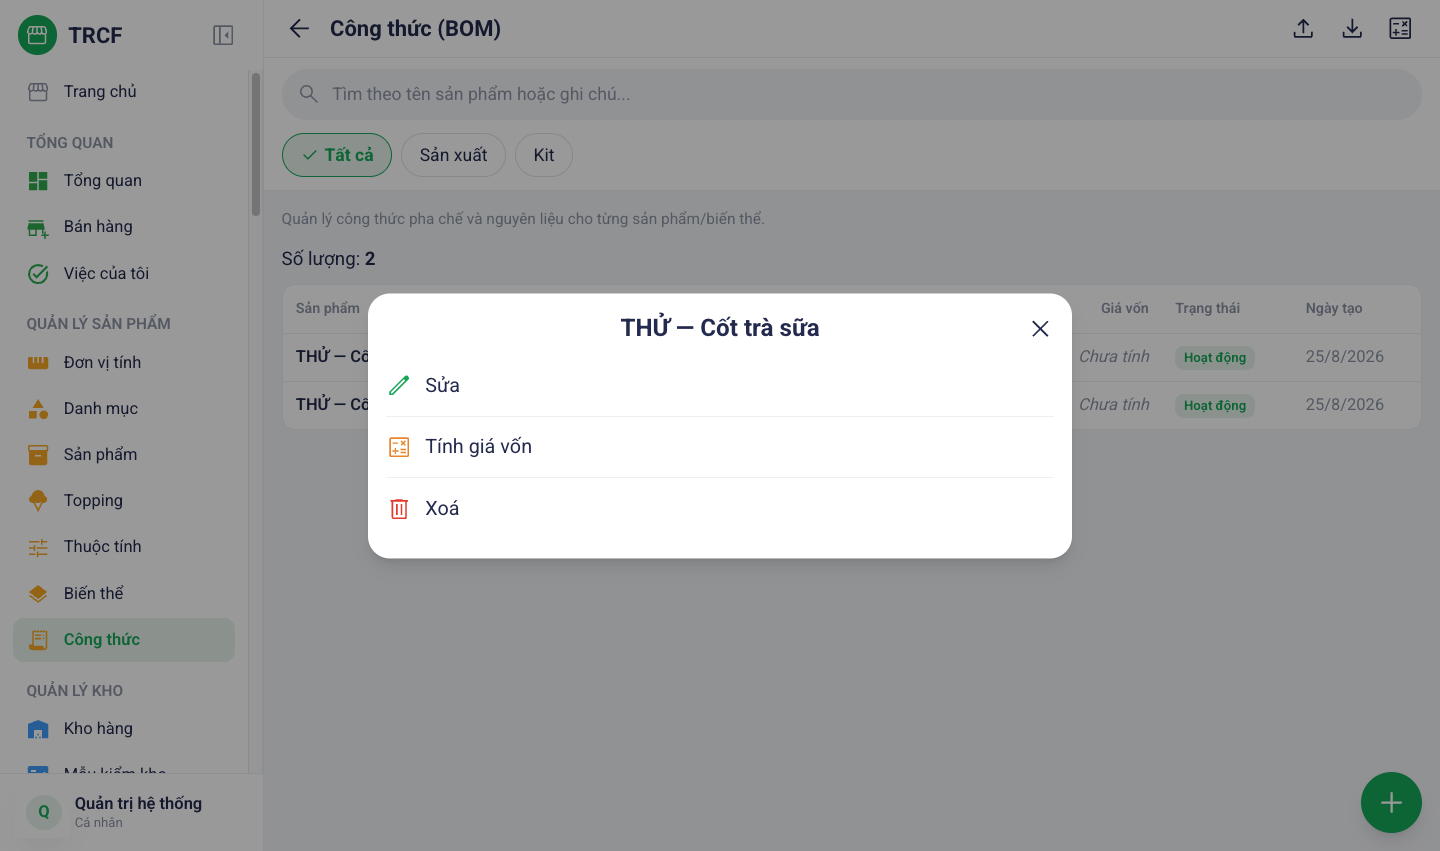
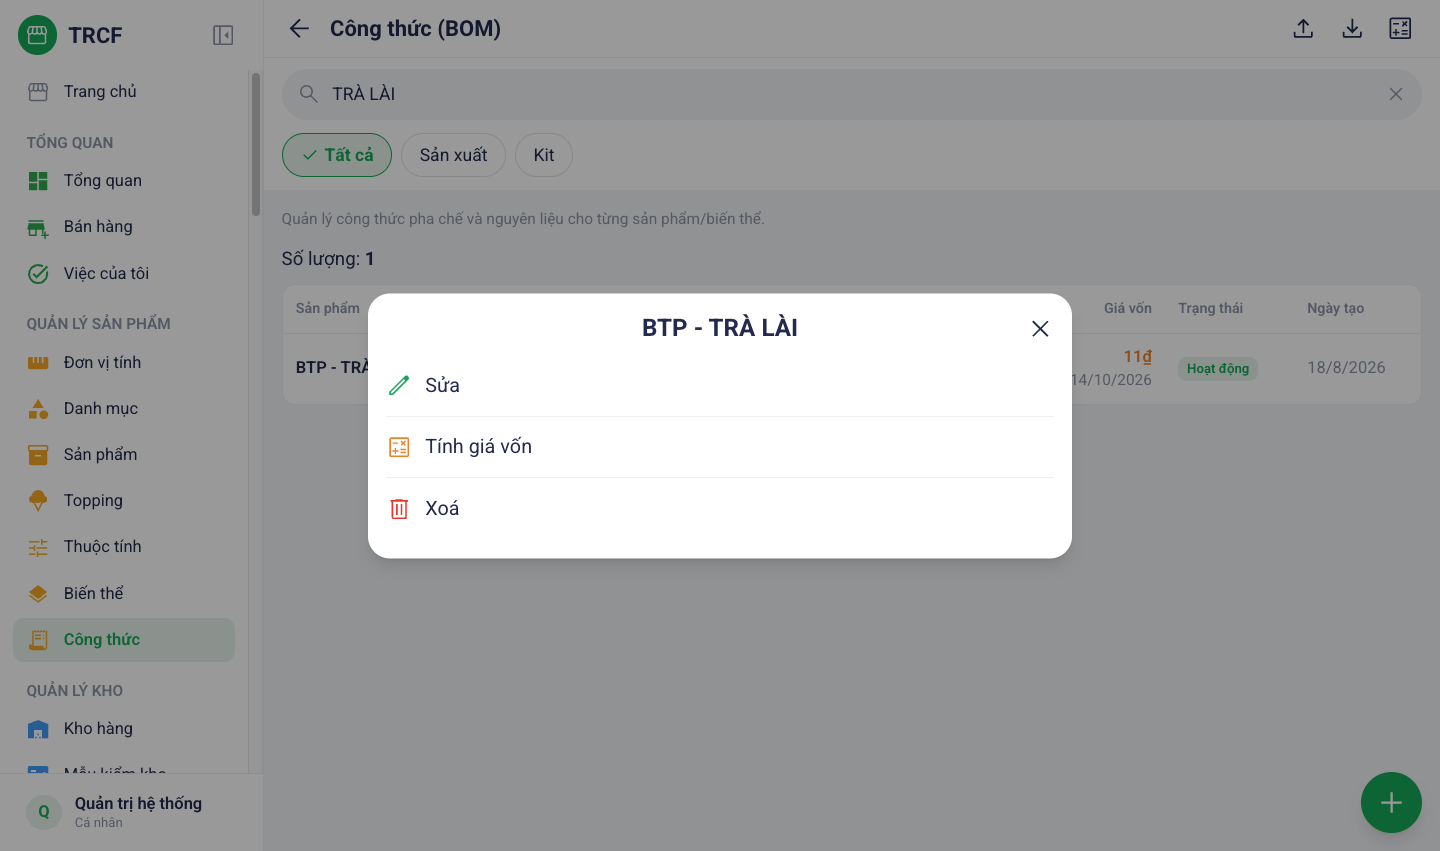
docs(3.1, 3.2): công thức thật BTP - TRÀ LÀI (800 GR, 11₫/GR) và MAY ĐEN ĐÁ kit (5.125₫)
Chụp lại 4 ảnh trên dữ liệu Coffeetree. Bảng hai loại công thức dùng món
thật. Công thức giá vốn sửa đúng cách hệ thống tính: tổng tiền nguyên liệu
÷ sản lượng, kèm phép tính mẫu.

diff --git a/noi-dung/3-1-cong-thuc-ban-thanh-pham.md b/noi-dung/3-1-cong-thuc-ban-thanh-pham.md
@@ -15,15 +15,15 @@ Menu trái: ==Quản lý sản phẩm → Công thức== (địa chỉ `/boms`).
 
 | Loại         | Trừ kho khi nào                                       | Dùng cho                                                               |
 | ------------ | ----------------------------------------------------- | ---------------------------------------------------------------------- |
-| CẦN SẢN XUẤT | Khi lập **phiếu chế biến** ([11.4](11-4-che-bien.md)) | Bán thành phẩm ủ trước: TRÀ LÀI Ủ SẴN, MILKFOAM, TRÂN CHÂU NẤU SẴN     |
-| KIT          | Ngay **lúc bán**, tự trừ thành phần                   | COMBO, MÓN RÁP TẠI CHỖ: CÀ PHÊ ĐEN, CÀ PHÊ SỮA, BẠC XỈU, TRÀ SỮA OLONG |
+| CẦN SẢN XUẤT | Khi lập **phiếu chế biến** ([11.4](11-4-che-bien.md)) | Bán thành phẩm làm trước: BTP - TRÀ LÀI, BTP - MILKFOAM MUỐI, BTP - COLDBREW |
+| KIT          | Ngay **lúc bán**, tự trừ thành phần                   | Món pha tại chỗ: MAY ĐEN ĐÁ, MAY SỮA ĐÁ, BẠC XỈU MAY, LATTE (ICED)     |
 
 ## 2. Ví dụ nền và các bước thực hiện
 
-> **Ví dụ:** công thức cho bán thành phẩm **THỬ — Cốt trà sữa**, pha một mẻ được 2 lít.
+> **Ví dụ:** công thức cho **BTP - TRÀ LÀI**, ủ một mẻ được 800 GR.
 >
-> - Nguyên liệu: **Trà đen CTC** 0,05 kg + **Sữa tươi Đà Lạt** 1 lít + **Đường mía** 0,2 kg.
-> - Sản lượng 2 lít.
+> - Nguyên liệu: **NL - TRÀ LÀI - 500** 35 GR + **NL - NƯỚC NÓNG** 800 GR + **NL - ĐÁ VIÊN** 200 GR.
+> - Sản lượng 800 GR. Giá vốn ra **11₫/GR**.
 
 ### Bước 1: Tạo công thức
 
@@ -37,7 +37,7 @@ Menu trái: ==Quản lý sản phẩm → Công thức== (địa chỉ `/boms`).
 
 ### Bước 2: Tính giá vốn
 
-- Bấm vào dòng công thức (cột **Giá vốn** đang *Chưa tính*), chọn **Tính giá vốn**.
+- Gõ tên món vào ô tìm kiếm, bấm vào dòng công thức, chọn **Tính giá vốn**.
 - Thấy thông báo *“Đã tính giá vốn công thức”*, cột **Giá vốn** hiện số tiền.
 - Tính cả loạt: bấm biểu tượng **Tính lại giá vốn** ở góc trên bên phải.
 
@@ -52,14 +52,16 @@ Menu trái: ==Quản lý sản phẩm → Công thức== (địa chỉ `/boms`).
 | Sản phẩm (thành phẩm)     | Món cần công thức. Danh sách **chỉ hiện sản phẩm đã bật *Sản xuất***   | ✅        |
 | Biến thể (tuỳ chọn)       | Bỏ trống: công thức chung mọi size. Chọn size: công thức riêng size đó | —        |
 | Loại công thức            | Bán thành phẩm thì chọn *Cần sản xuất*                                 | ✅        |
-| Sản lượng (yield)         | **Số lượng** + **Đơn vị** công thức làm ra. Pha một mẻ được 2 lít: nhập 2, chọn Lít | ✅        |
+| Sản lượng (yield)         | **Số lượng** + **Đơn vị** công thức làm ra. Ủ một mẻ được 800 GR: nhập 800, chọn GRAM | ✅        |
 | Hoạt động                 | Tắt: công thức tạm ngừng dùng                                          | —        |
 | Ghi chú                   | Ghi chú nội bộ cho công thức                                           | —        |
 | Nguyên liệu               | Hàng + số lượng (SL) + đơn vị tính (ĐVT)                               | ✅        |
 
 ### Cách tính giá vốn
 
-`giá vốn = tổng giá vốn nguyên liệu`
+`giá vốn 1 đơn vị = tổng tiền nguyên liệu ÷ sản lượng`
+
+- Ví dụ BTP - TRÀ LÀI: (35 × 232₫ + 800 × 1₫ + 200 × 1₫) ÷ 800 = **11,4₫/GR**.
 
 - Sản phẩm có nhiều công thức đang hoạt động: lấy **công thức rẻ nhất**.
 

diff --git a/noi-dung/3-2-cong-thuc-thanh-pham.md b/noi-dung/3-2-cong-thuc-thanh-pham.md
@@ -15,15 +15,15 @@ Menu trái: ==Quản lý sản phẩm → Công thức== (địa chỉ `/boms`).
 
 | Loại         | Trừ kho khi nào                                       | Dùng cho                                                               |
 | ------------ | ----------------------------------------------------- | ---------------------------------------------------------------------- |
-| CẦN SẢN XUẤT | Khi lập **phiếu chế biến** ([11.4](11-4-che-bien.md)) | Bán thành phẩm ủ trước: TRÀ LÀI Ủ SẴN, MILKFOAM, TRÂN CHÂU NẤU SẴN     |
-| KIT          | Ngay **lúc bán**, tự trừ thành phần                   | COMBO, MÓN RÁP TẠI CHỖ: CÀ PHÊ ĐEN, CÀ PHÊ SỮA, BẠC XỈU, TRÀ SỮA OLONG |
+| CẦN SẢN XUẤT | Khi lập **phiếu chế biến** ([11.4](11-4-che-bien.md)) | Bán thành phẩm làm trước: BTP - TRÀ LÀI, BTP - MILKFOAM MUỐI, BTP - COLDBREW |
+| KIT          | Ngay **lúc bán**, tự trừ thành phần                   | Món pha tại chỗ: MAY ĐEN ĐÁ, MAY SỮA ĐÁ, BẠC XỈU MAY, LATTE (ICED)     |
 
 ## 2. Ví dụ nền và các bước thực hiện
 
-> **Ví dụ:** công thức Kit cho **THỬ — Cốt trà sữa**, bán theo ly, trừ thành phần ngay lúc bán.
+> **Ví dụ:** công thức Kit cho **MAY ĐEN ĐÁ**, bán ly nào trừ nguyên liệu ly đó.
 >
-> - Công thức: **Sữa tươi Đà Lạt** 0,1 lít + **Đường mía** 0,01 kg.
-> - Sản lượng 1 ly.
+> - Công thức: **NL - CÀ PHÊ VIỆT PHA PHIN - 1000 - 30** 20 GR + **NL - ĐƯỜNG NƯỚC - 25KG - 750** 5 GR.
+> - Sản lượng 1 LY. Giá vốn ra **5.125₫/ly**.
 
 ### Bước 1: Tạo công thức
 
@@ -37,7 +37,7 @@ Menu trái: ==Quản lý sản phẩm → Công thức== (địa chỉ `/boms`).
 
 ### Bước 2: Tính giá vốn
 
-- Bấm vào dòng công thức (cột **Giá vốn** đang *Chưa tính*), chọn **Tính giá vốn**.
+- Gõ tên món vào ô tìm kiếm, bấm vào dòng công thức, chọn **Tính giá vốn**.
 - Thấy thông báo *“Đã tính giá vốn công thức”*, cột **Giá vốn** hiện số tiền.
 - Tính cả loạt: bấm biểu tượng **Tính lại giá vốn** ở góc trên bên phải.
 
@@ -59,7 +59,9 @@ Menu trái: ==Quản lý sản phẩm → Công thức== (địa chỉ `/boms`).
 
 ### Cách tính giá vốn
 
-`giá vốn sản phẩm = tổng giá vốn nguyên liệu cộng lại`
+`giá vốn 1 đơn vị = tổng tiền nguyên liệu ÷ sản lượng`
+
+- Ví dụ MAY ĐEN ĐÁ: (20 × 251₫ + 5 × 21₫) ÷ 1 = **5.125₫/ly**.
 
 - Sản phẩm có nhiều công thức đang hoạt động: lấy **công thức rẻ nhất**.
 
